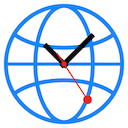
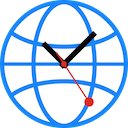
Project - Update to v1.0.3

diff --git a/CHANGELOG.md b/CHANGELOG.md
@@ -4,6 +4,10 @@ All notable changes to the "vscode-world-clock" extension will be documented in 
 
 ## [1.0.2] - 2024-08-31
 
+- Update extension logo
+
+## [1.0.2] - 2024-08-31
+
 - Update README.md
 - Add VSCode Marketplace support
 
